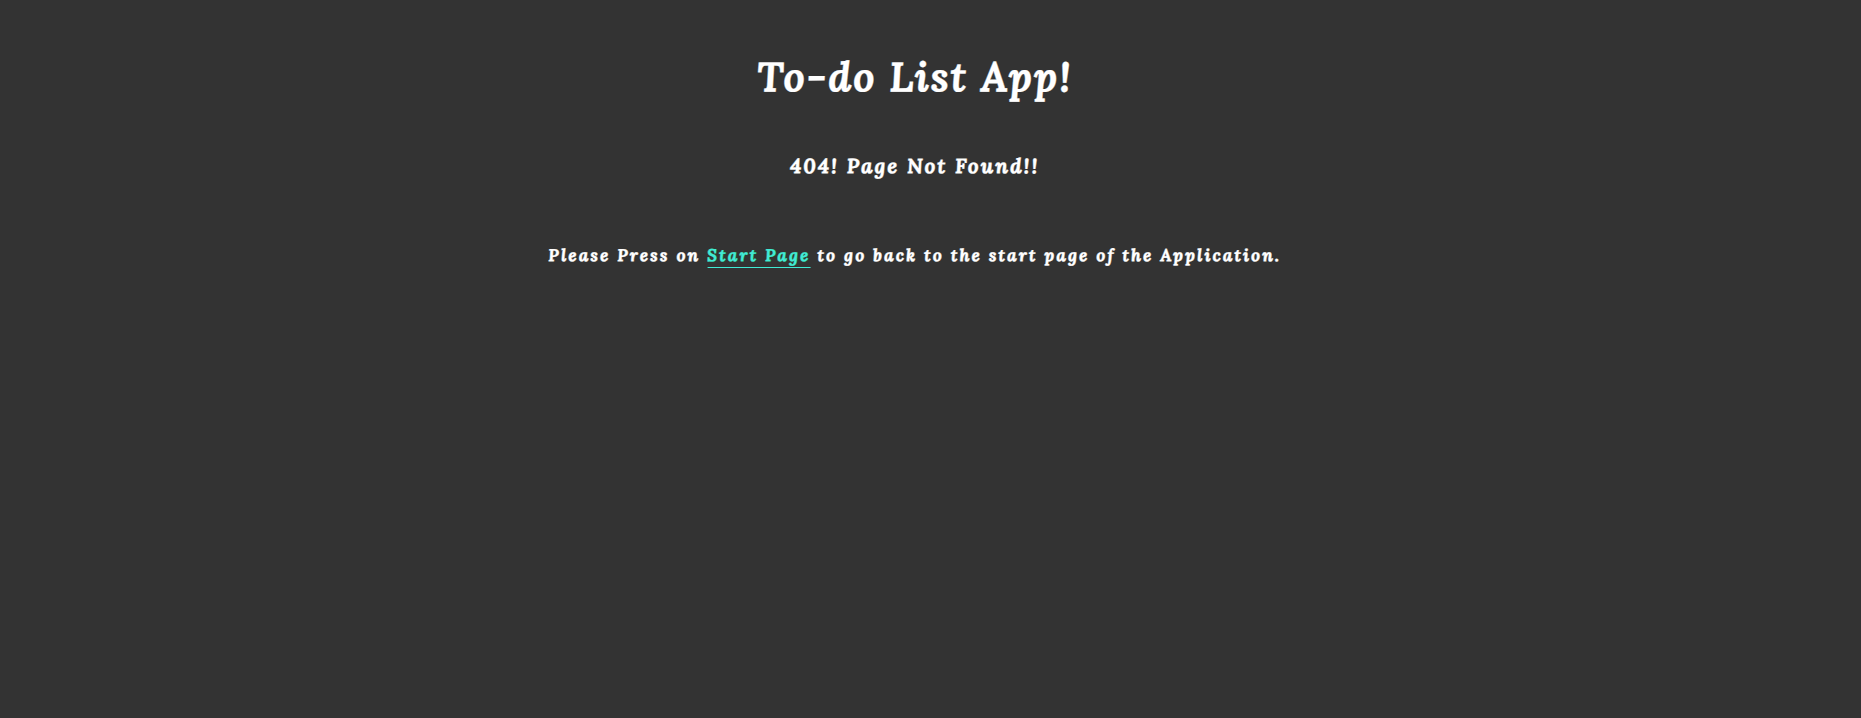
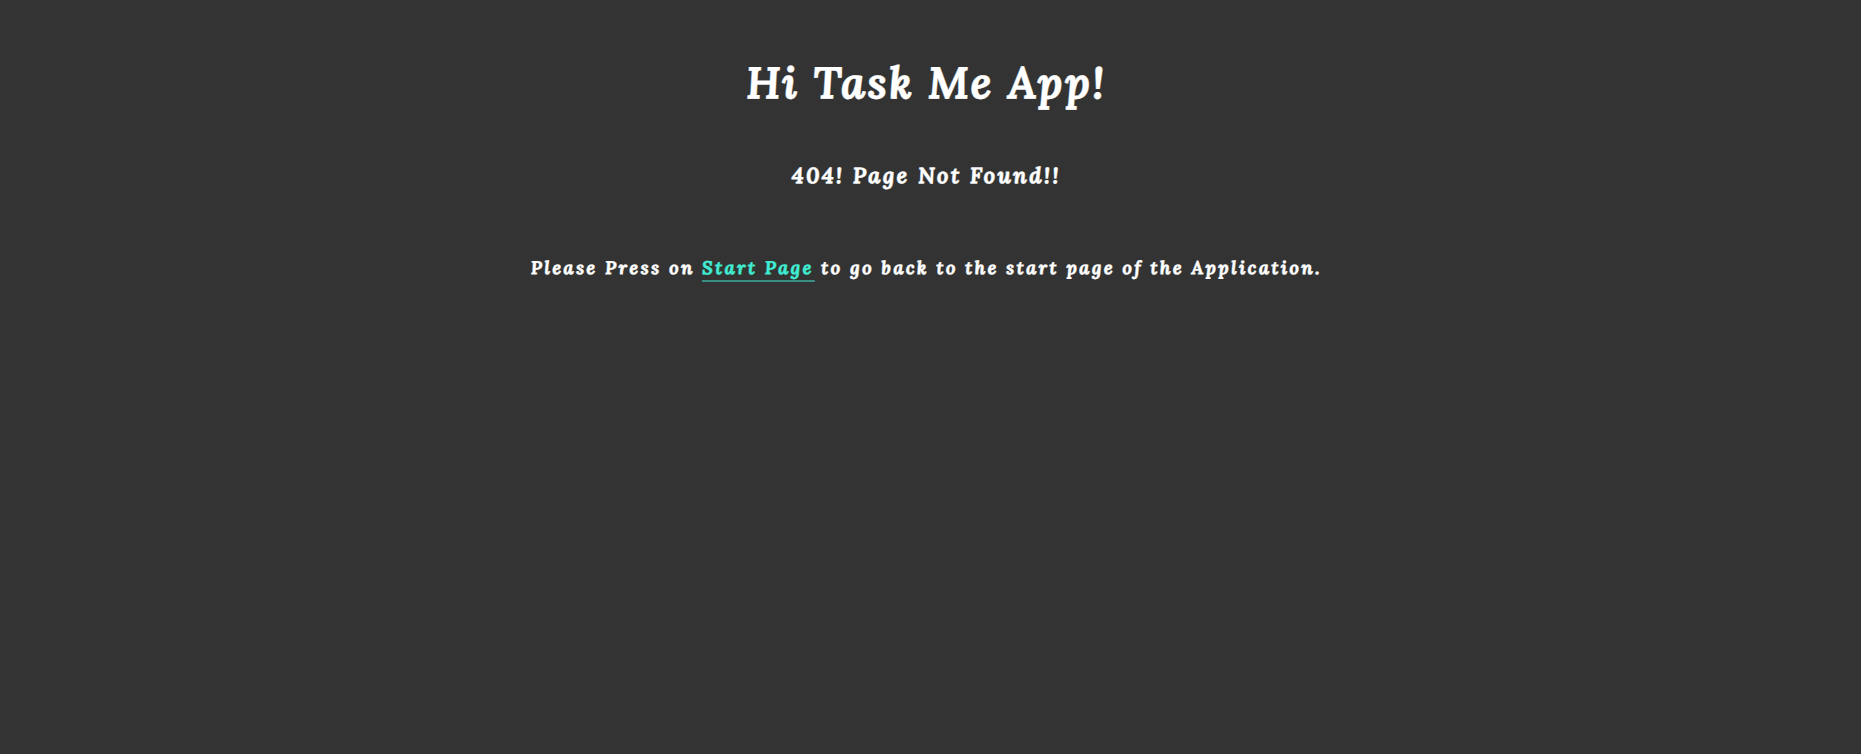
edit readme file

Changed region(s): [[0.2805, 0.337, 0.7168, 0.3983], [0.4052, 0.0613, 0.5922, 0.1532], [0.4052, 0.2145, 0.5922, 0.2451]]

diff --git a/README.md b/README.md
@@ -2,13 +2,11 @@
 
 This is a simple Tasks list application that helps you keep track of your tasks and monitor your daily progress on any project or task. It can also help you remember any pending tasks. With this application, you can easily create and manage your tasks lists and prioritize your work. Whether you’re working on a personal project or even your daily tasks, this application can help you stay organized and focused.
 
-The Hi Task Me App is live, please [Click Here](https://alakeldev.github.io/to-do-list-pp2/) to check It.
+The Hi Task Me App is live, please [Click Here](https://alakeldev.github.io/hi-task-me-app/) to check It.
 
 ![Site view across devices](assets/readme-images/todolistapp-amiresponsive.png)
 
-You can check the App on "Am I Responsive!" Website By [Clicking Here](https://ui.dev/amiresponsive?url=https://alakeldev.github.io/to-do-list-pp2/).
-
-Also you can check it on "Responsive Design Checker" Website By [Clicking Here](https://responsivedesignchecker.com/checker.php?url=https%3A%2F%2Falakeldev.github.io%2Fto-do-list-pp2%2F&width=1400&height=700).
+You can check the App on "Am I Responsive!" Website By [Clicking Here](https://ui.dev/amiresponsive?url=https://alakeldev.github.io/hi-task-me-app/).
 
 ## Tabel of Contents
 - [Tabel of Contents](#tabel-of-contents)
@@ -29,6 +27,7 @@ Also you can check it on "Responsive Design Checker" Website By [Clicking Here](
     - [Main App page](#main-app-page)
     - [See You Later page](#see-you-later-page)
     - [404 page](#404-page)
+    - [Privacy Policy page](#privacy-policy-page)
   - [Future Features](#future-features)
 - [Testing](#testing)
   - [Manual Testing](#manual-testing)
